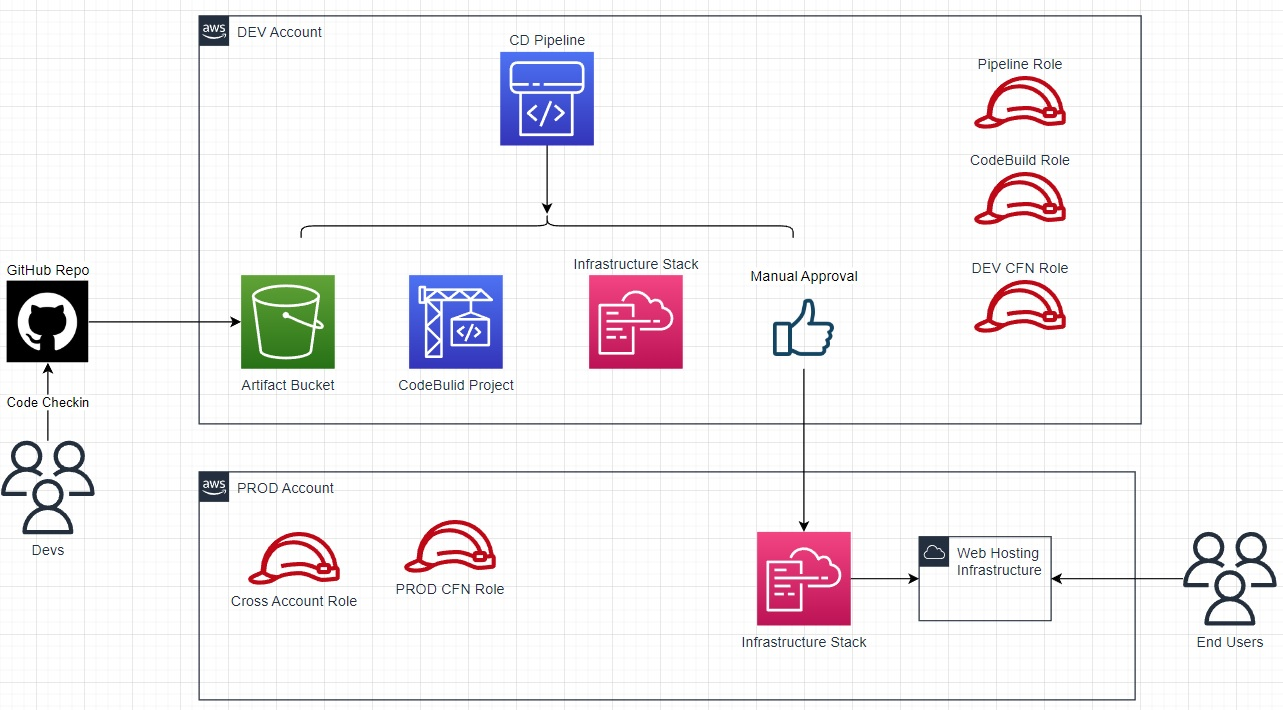
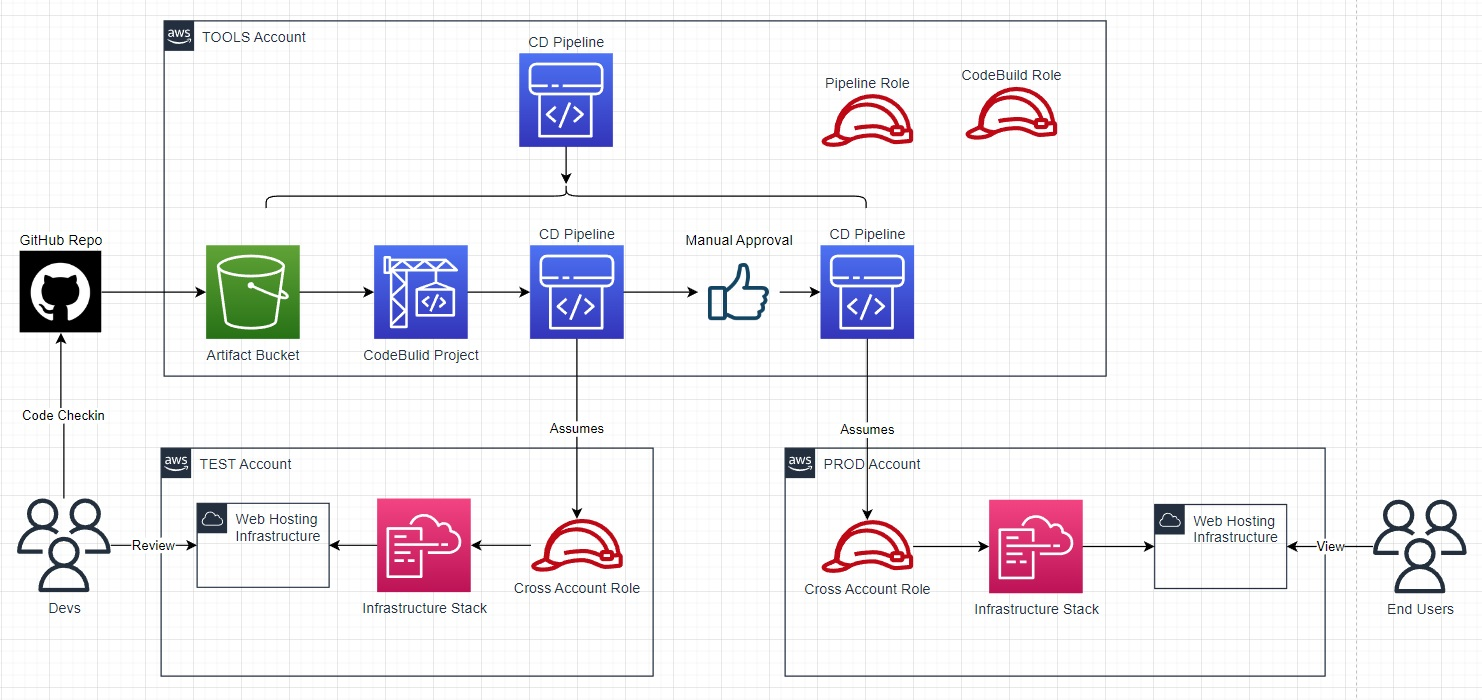
updated pipeline deep dive

diff --git a/docs/deepDives/pipeline/README.md b/docs/deepDives/pipeline/README.md
@@ -6,6 +6,8 @@ This walkthrough will build off of The Basics by creating a pipeline for automat
 ## To-Do List:
 - finalize architecture diagram
 - automate account setup
+- refine iam permissions
+- review template portability (regions)
 
 ## Architecture Overview
 The pipeline operates across multiple accounts to create the web hosting infrastructure in one account for testing and review then another account for production use. Infrastructure deployments will be performed through CloudFormation with minimum management console interactions.
@@ -40,11 +42,110 @@ The pipeline operates across multiple accounts to create the web hosting infrast
 What:
 1. AWS management account and IAM user with administrative permissions
 
-2. An organization created in the management account with DEV and PROD children accounts
+2. An organization created in the management account with TOOLS, TEST, and PROD children accounts
 
 3. A Route53 public hosted zone configured for a custom domain name in the PROD account
+
+4. A Route53 public hosted zone configured for a subdomain in the TEST account
 
 Resources:
 - [AWS account getting started](https://docs.aws.amazon.com/accounts/latest/reference/welcome-first-time-user.html)
 
 ### Step 1 - Creating IAM Roles
+
+Two IAM roles are needed in both the TEST and PROD accounts before the pipeline can function. First, a cross account role is required for the pipeline action with a trust relationship to the TOOLS account.
+
+```
+{
+  "Version": "2012-10-17",
+  "Statement": [
+      {
+          "Effect": "Allow",
+          "Principal": {
+              "AWS": "arn:aws:iam::MY-TOOLS-ACCOUNT-ID:root"
+          },
+          "Action": "sts:AssumeRole",
+          "Condition": {}
+      }
+  ]
+}
+```
+
+This role will be used to decrypt the S3 artifact bucket objects and create the cloudformation stack which requires the following policy.
+
+```
+{
+  "Version": "2012-10-17",
+  "Statement": [
+      {
+          "Action": [
+              "cloudformation:*",
+              "s3:*",
+              "iam:PassRole"
+          ],
+          "Resource": "*",
+          "Effect": "Allow"
+      },
+      {
+          "Action": [
+              "kms:Decrypt",
+              "kms:Encrypt"
+          ],
+          "Resource": "arn:aws:kms:us-east-1:MY-TOOLS-ACCOUNT-ID:key/MY-TOOLS-KMSKey-ID",
+          "Effect": "Allow"
+      }
+  ]
+}
+```
+
+The second role is for cloudformation to assume when executing the stack. A basic trust policy with cloudformation is required.
+
+```
+{
+  "Version": "2012-10-17",
+  "Statement": [
+      {
+          "Sid": "",
+          "Effect": "Allow",
+          "Principal": {
+              "Service": "cloudformation.amazonaws.com"
+          },
+          "Action": "sts:AssumeRole"
+      }
+  ]
+}
+```
+
+The policy statmenent needs all permissions required to create the web hosting infrastructure.
+
+```
+{
+  "Version": "2012-10-17",
+  "Statement": [
+      {
+          "Effect": "Allow",
+          "Resource": "*",
+          "Action": [
+              "s3:*",
+              "cloudformation:*",
+              "lambda:*",
+              "route53:*",
+              "codestar-connections:*",
+              "ses:*",
+              "cloudfront:*",
+              "acm:*",
+              "apigateway:*",
+              "iam:*"
+          ]
+      },
+      {
+          "Action": [
+              "kms:Decrypt",
+              "kms:Encrypt"
+          ],
+          "Resource": "arn:aws:kms:us-east-1:MY-TOOLS-ACCOUNT-ID:key/MY-TOOLS-KMSKey-ID",
+          "Effect": "Allow"
+      }
+  ]
+}
+```
